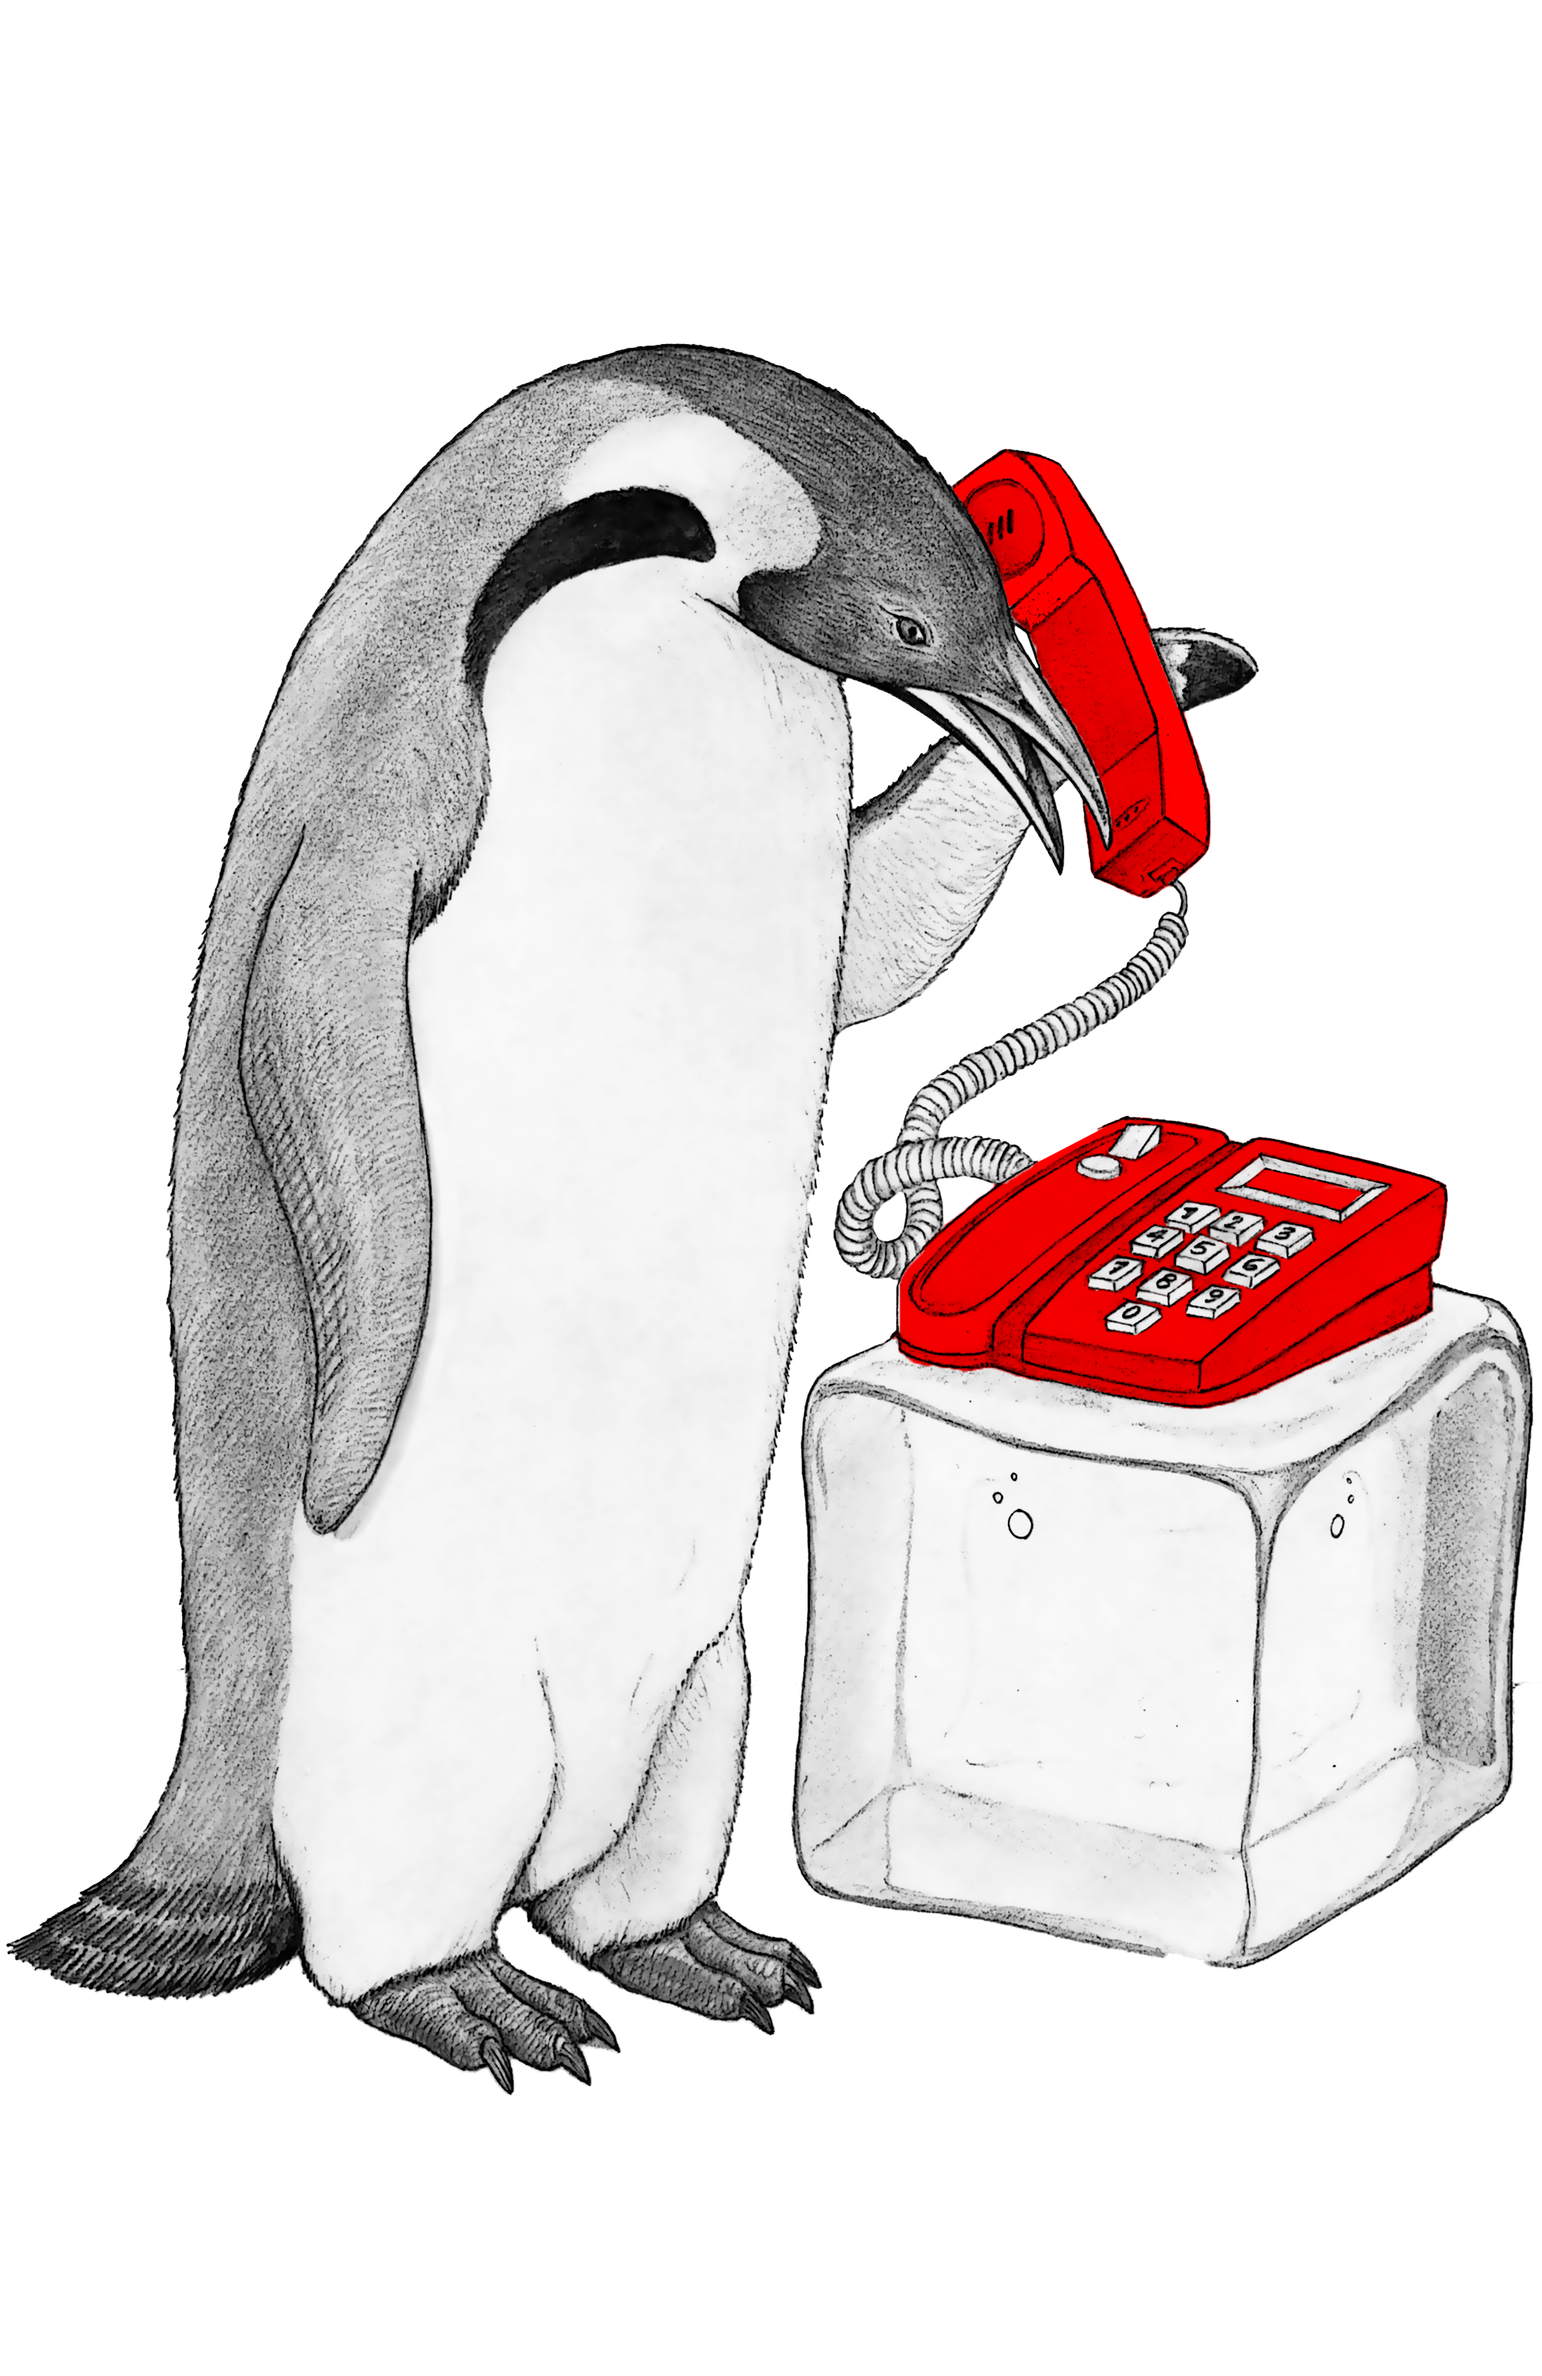
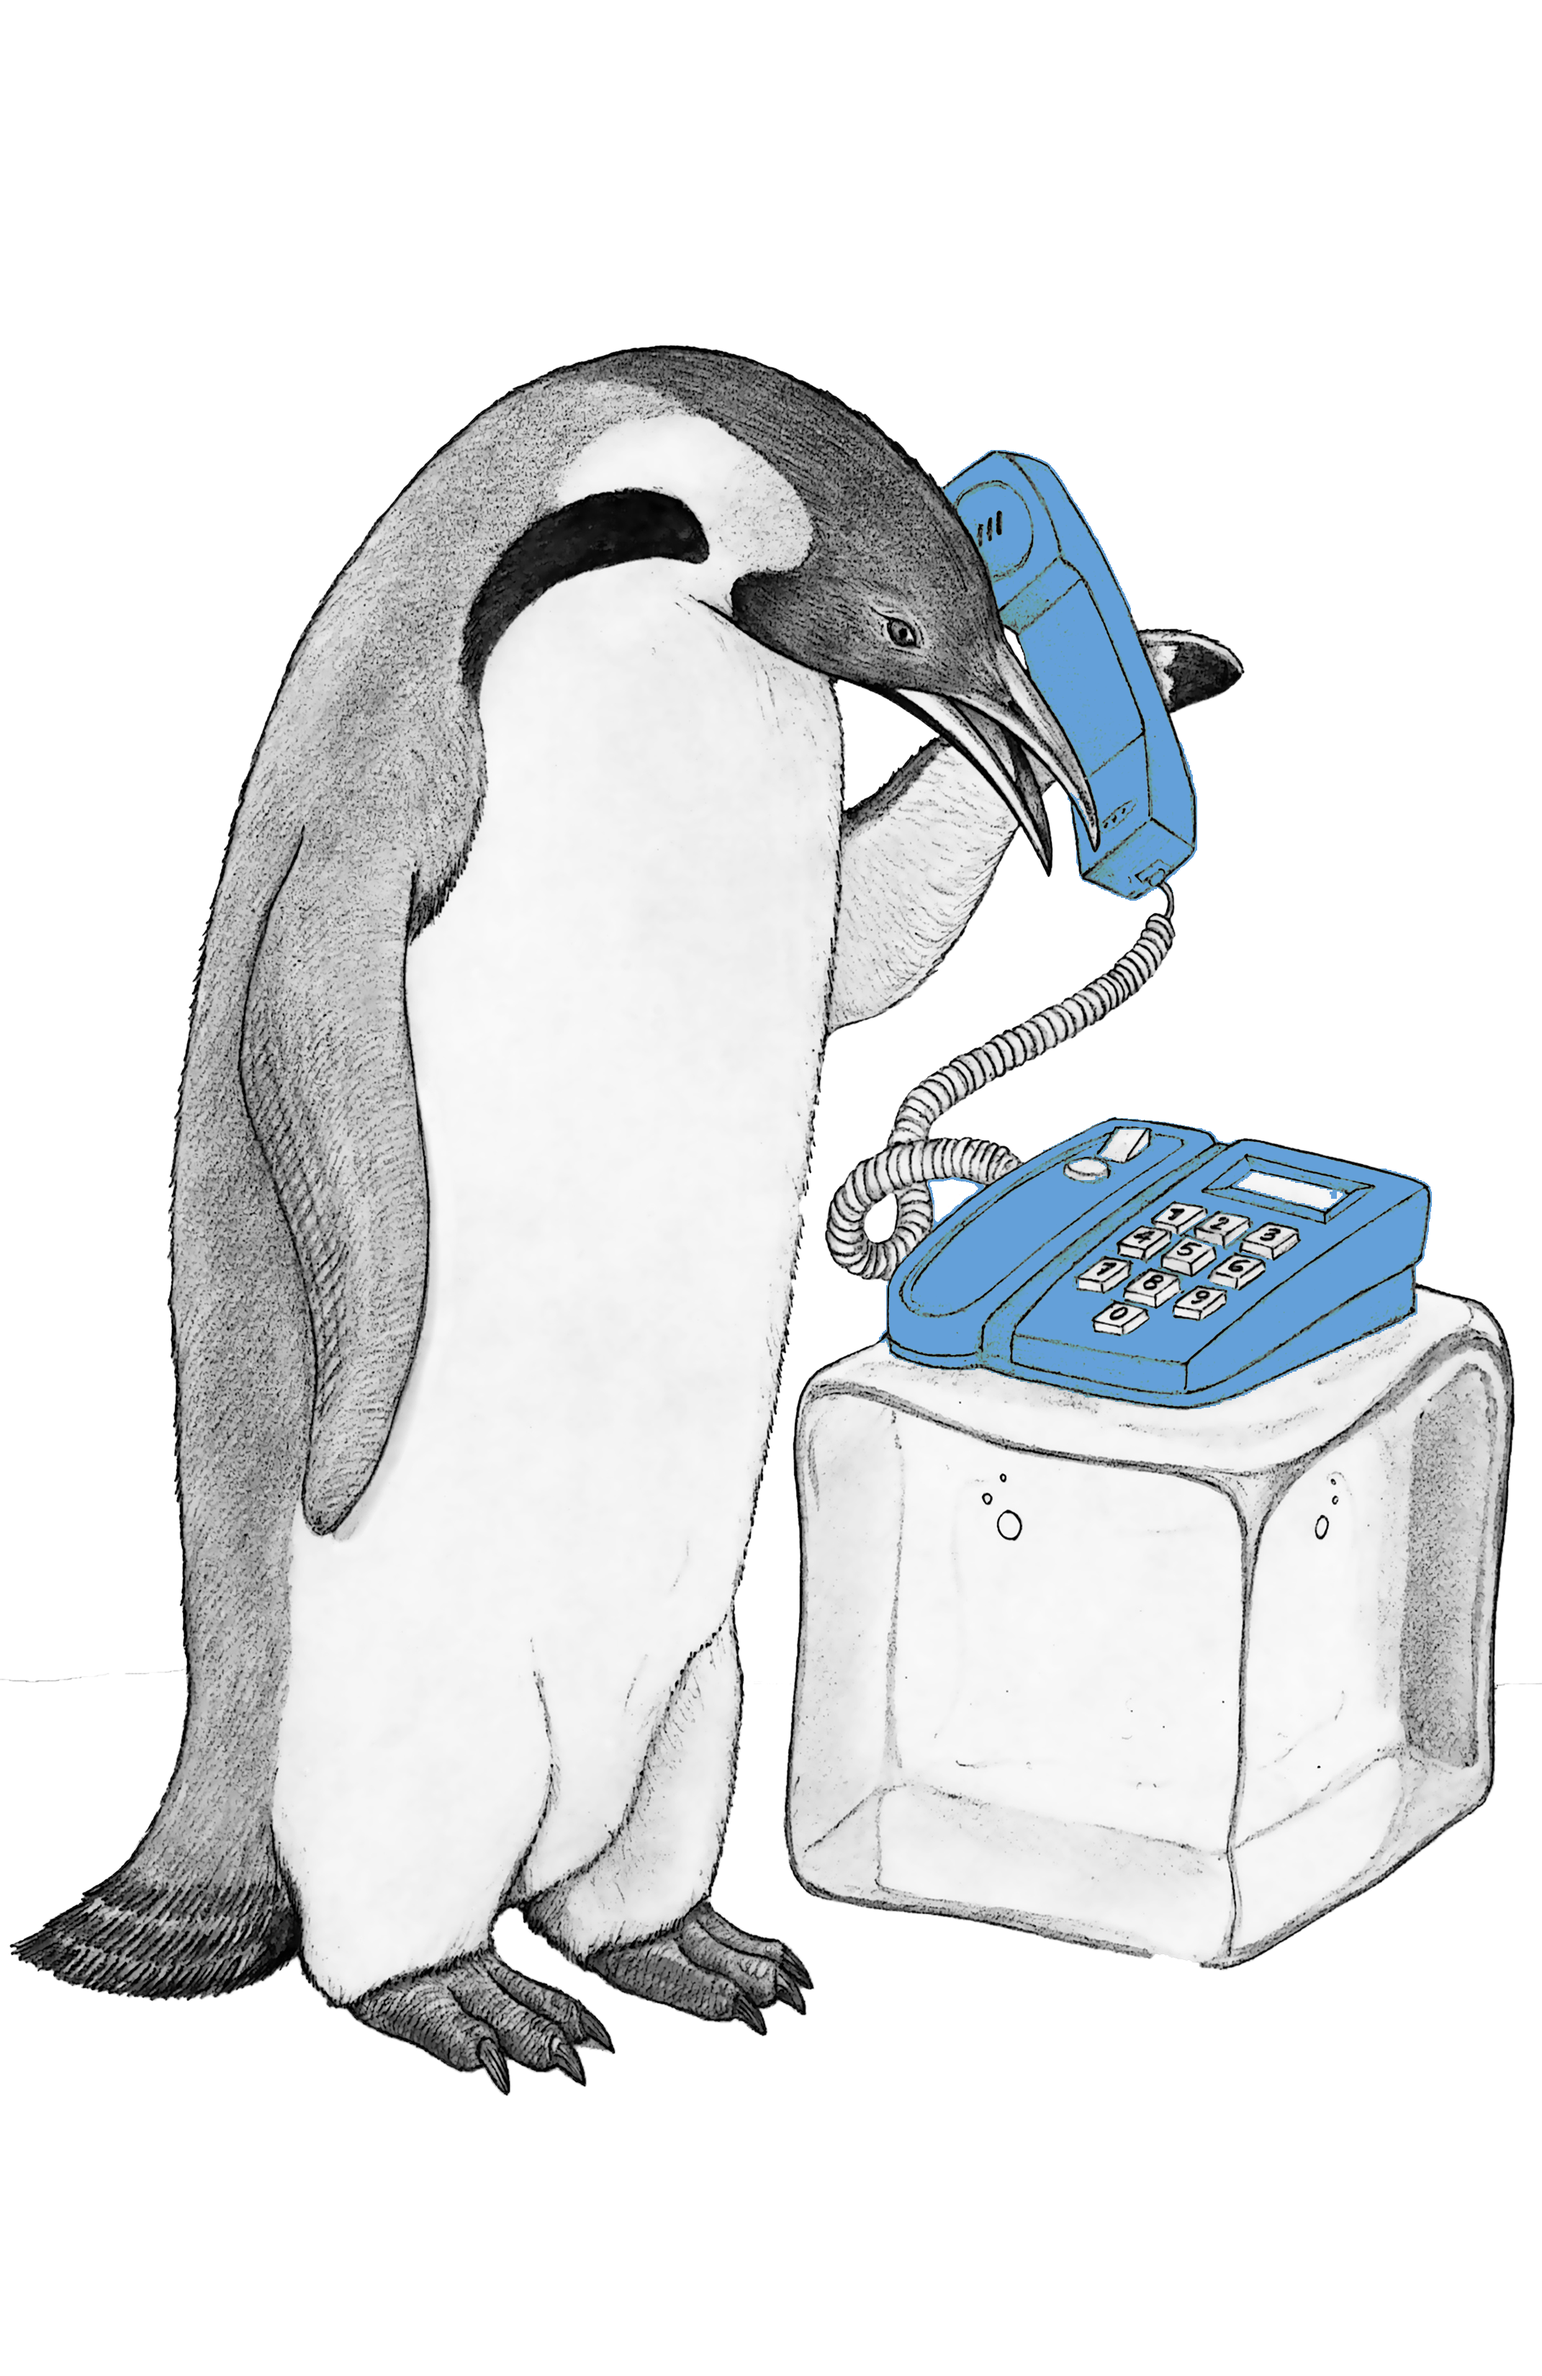
Kleuren en titels homepage

Changed region(s): [[0.0, 0.1248, 1.0, 0.8739], [0.6779, 0.8115, 0.7395, 0.8427]]

diff --git a/css/styles.css b/css/styles.css
@@ -70,7 +70,8 @@ img {border-style: none; }
 svg:not(:root) {overflow: hidden;}
 img {display: inline-block; vertical-align: middle; max-width: 100%; height: auto;-ms-interpolation-mode: bicubic;}
 
-header {position: fixed; top: 0; left: 0; right: 0; width: 100vw; height: 75px; z-index: 10;}
+/*header {position: fixed; top: 0; left: 0; right: 0; width: 100vw; height: 75px; z-index: 10;}*/
+header {position: fixed; top: 0; left: 0; right: 0; z-index: 10;}
 .header_menu_container {position: absolute; top: 0; right: 0; height: 55px;margin: 15px 35px 0 0;}
 .header_logo_container {position: absolute; top: 0; left: 0; border: 0; margin: 0; padding: 10px 15px; background-color: transparent;  cursor: pointer; height: 55px; overflow: visible;}
 .logo_box {display: inline-block; width: 40px; height: 40px;position: relative;}
@@ -106,7 +107,7 @@ body {background-color: #f2f2f2;}
 
 .pig {background: #f2f2f2 url("../img/pig.png");}
 .monkey {background: #f2f2f2 url("../img/chimpancee.png");}
-.penguin {background: #f2f2f2 url("../img/penguin.png");}
+.penguin {background: #f2f2f2 url("../img/penguin_red.png");}
 
 .foto_homepage {background-repeat: no-repeat; background-position: bottom;}
 .resize55 {background-size: auto 100%;}
@@ -187,18 +188,26 @@ figure {margin: 0; }
 
 .box-content-testjan3 {padding: 0 7px 35px 7px; position: absolute; width: 100%; bottom: 0;}
 .box-content-testjan3 h1 {font-weight: bold; padding: 0 10px 7px 10px; font-size: 2.3rem; transition: all 0.45s ease; transform: translateY(55px);}
-.box-content-testjan3 h2 {font-weight: bold; padding: 0 10px 0px 10px; font-size: 1.5rem; transition: all 0.45s ease; transform: translateY(55px);}
-.box-content-testjan3 p {width: 100%; padding: 0 10px; font-size: 1.2rem; transition: all 0.45s ease; transform: translateY(15px); opacity: 0;}
+.box-content-testjan3 h2 {padding: 0 10px 0px 10px; font-size: 1.5rem; transition: all 0.45s ease; transform: translateY(55px);}
+.box-content-testjan3 p {width: 100%; padding: 0 10px; font-size: 0.85rem; transition: all 0.45s ease; transform: translateY(-100px); opacity: 0;}
 .box:hover .box-content-testjan3 h1 {transform: translateY(-5px);}
 .box:hover .box-content-testjan3 h2 {transform: translateY(-5px);}
 .box:hover .box-content-testjan3 p {transform: translateY(-5px); opacity: 1;}
+
+.box-content-testjan4 {min-height: 300px; padding: 50px 7px 0 7px; position: absolute; width: 100%; bottom: 0;}
+.box-content-testjan4 h1 {font-weight: bold; padding: 0 10px 7px 10px; font-size: 2.3rem; transition: all 0.45s ease; transform: translateY(55px);}
+.box-content-testjan4 h2 {font-weight: bold; padding: 0 10px 0px 10px; font-size: 1.5rem; transition: all 0.45s ease; transform: translateY(55px);}
+.box-content-testjan4 p {width: 100%; padding: 0 10px; font-size: 1.1rem; transition: all 0.45s ease; transform: translateY(-100px); opacity: 0;}
+.box:hover .box-content-testjan4 h1 {transform: translateY(-5px);}
+.box:hover .box-content-testjan4 h2 {transform: translateY(-5px);}
+.box:hover .box-content-testjan4 p {transform: translateY(-5px); opacity: 1;}
 /*EINDE TESTJAN HOMEPAGE*/
 
 .fill-box {display: block; height: 100%; width: 100%; text-decoration: none;}
 
 .pig {background: #f2f2f2 url("../img/pig.png");}
 .monkey {background: #f2f2f2 url("../img/chimpancee.png");}
-.penguin {background: #f2f2f2 url("../img/penguin.png");}
+.penguin {background: #f2f2f2 url("../img/penguin_red.png");}
 
 .foto_homepage {background-repeat: no-repeat; background-position: 50% 25%;}
 .resize55 {background-size: auto 55%;}

diff --git a/index.html b/index.html
@@ -44,44 +44,30 @@
 
     <div class="box pig foto_homepage resize70">
       <a href="services.html" class="fill-box">
-        <!--<div class="box-content">
-            <p class="box-content-hidden">Digitale strategie <span class="schuin"> / </span> Website ontwikkeling  <span class="schuin"> / </span>  Optimalisatie zoekresultaten  <span class="schuin"> / </span>  Sociale media </p>
-            <h1>Wij creëren uw digitaal project op maat</h1>
-        </div>-->
-        <div class="box-content-top">
-          <h1>< Onze services ></h1>
-        </div>
-        <div class="box-content-testjan">
-            <h1>Wij creëren uw digitaal project op maat</h1>
-            <p class="box-content-hidden">Digitale strategie <span class="schuin"> / </span> Website ontwikkeling  <span class="schuin"> / </span>  Optimalisatie zoekresultaten  <span class="schuin"> / </span>  Sociale media </p>
-            <h2>Onze services</h2>
+        <div class="box-content-testjan3">
+          <h1>Voor U</h1>
+          <h2>Wij achter de computer, u achter het roer.</h2>
+          <p class="box-content-hidden">Wij verzorgen uw digitaal project op maat, van start tot einde. U kiest zelf in welke mate u betrokken bent.</p>
         </div>
       </a>
     </div>
 
     <div class="box monkey foto_homepage resize70">
       <a href="about.html" class="fill-box">
-        <!--<div class="box-content">
-            <p class="box-content-hidden">Ontdek wie we zijn en maak kennis met onze geniale werkwijze.</p>
-            <h1>Groots in toewijding, breed in speelruimte</h1>
-        </div>-->
-        <div class="box-content-testjan2">
-            <h1>< OVER ONS ></h1>
-            <p class="box-content-hidden">Ontdek wie we zijn en maak kennis met onze geniale werkwijze.</p>
+        <div class="box-content-testjan3">
+          <h1>Over ons</h1>
+          <h2>Een beetje eigenwijs, maar met veel goesting.</h2>
+          <p class="box-content-hidden">Wij werken aan uw project in bijberoep. We zijn bewust bescheiden in omvang, maar breed in speelruimte en groots in toewijding.</p>
         </div>
       </a>
     </div>
 
-    <div class="box penguin foto_homepage resize80">
+    <div class="box penguin foto_homepage resize70">
       <a href="contact.html" class="fill-box">
-        <!--<div class="box-content">
-            <p class="box-content-hidden">Een vraag of offerte? Neem gerust even contact met ons op. We helpen u graag.</p>
-            <h1>Deze pinguin wil graag met je afspreken</h1>
-        </div>-->
         <div class="box-content-testjan3">
             <h1>Contact</h1>
-            <h2>Wij willen graag met je afspreken</h2>
-            <p class="box-content-hidden">Een vraag of offerte? Neem gerust even contact met ons op. We helpen u graag.</p>
+            <h2>We zijn gesloten. Laat een boodschap na de biep.</h2>
+            <p class="box-content-hidden">Niet 9-to-5, maar met volle toewijding ervoor en erna. Neem gerust contact op en we beloven een snel antwoord.</p>
         </div>
       </a>
     </div>
